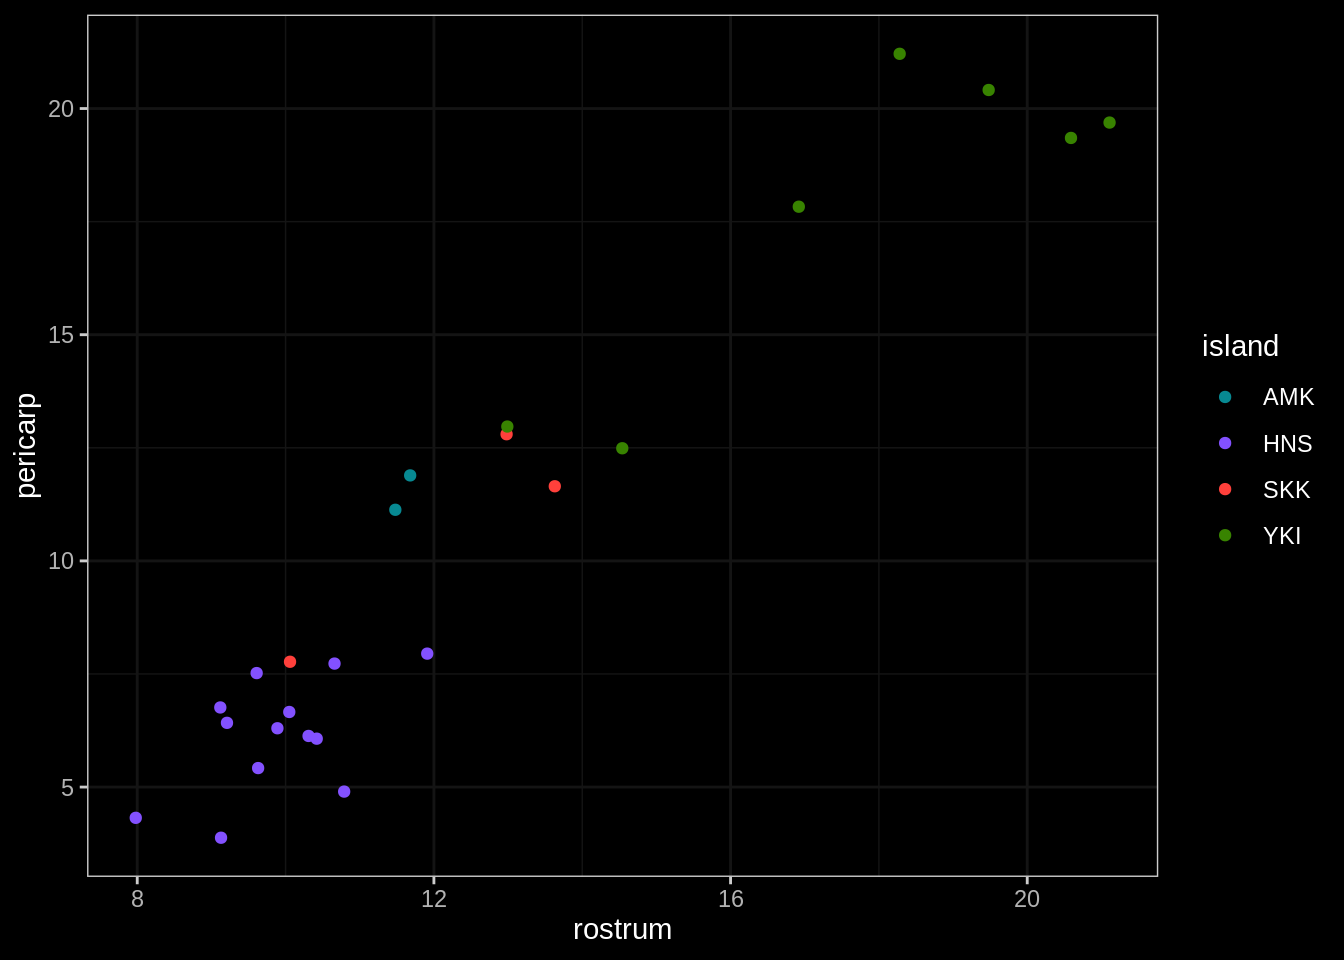
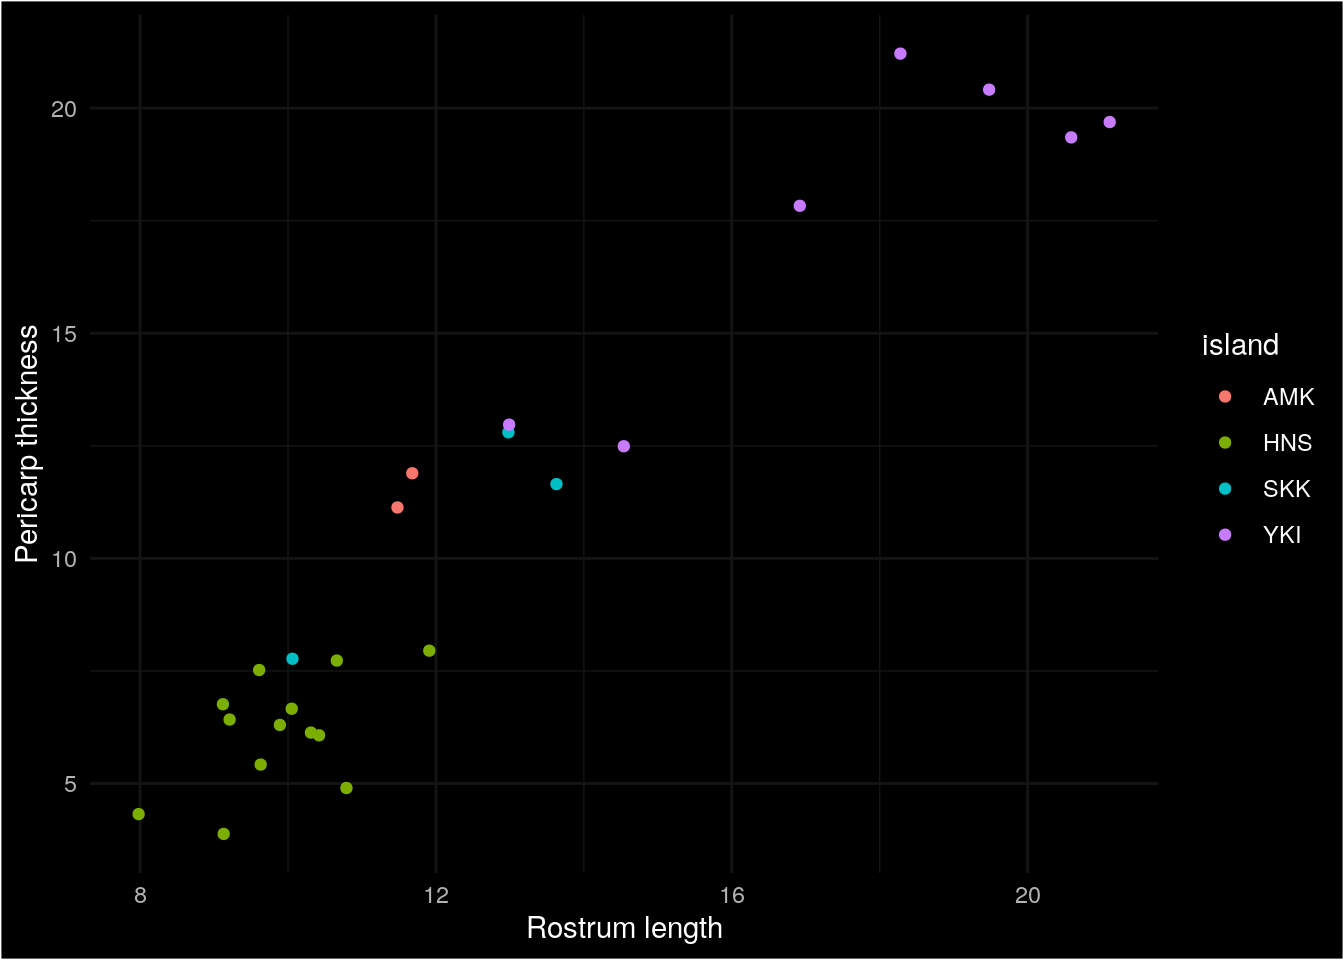
inv-fig

diff --git a/measuring_coevolution.html b/measuring_coevolution.html
@@ -1,12 +1,12 @@
 <!DOCTYPE html>
 
-<html xmlns="http://www.w3.org/1999/xhtml">
+<html>
 
 <head>
 
 <meta charset="utf-8" />
-<meta http-equiv="Content-Type" content="text/html; charset=utf-8" />
 <meta name="generator" content="pandoc" />
+<meta http-equiv="X-UA-Compatible" content="IE=EDGE" />
 
 
 
@@ -87,7 +87,6 @@ code {
 }
 img {
   max-width:100%;
-  height: auto;
 }
 .tabbed-pane {
   padding-top: 12px;
@@ -236,6 +235,7 @@ $(document).ready(function () {
   border: none;
   display: inline-block;
   border-radius: 4px;
+  background-color: transparent;
 }
 
 .tabset-dropdown > .nav-tabs.nav-tabs-open > li {
@@ -248,48 +248,9 @@ $(document).ready(function () {
 }
 </style>
 
-<script>
-$(document).ready(function () {
-  window.buildTabsets("TOC");
-});
-
-$(document).ready(function () {
-  $('.tabset-dropdown > .nav-tabs > li').click(function () {
-    $(this).parent().toggleClass('nav-tabs-open')
-  });
-});
-</script>
-
 <!-- code folding -->
 
 
-
-<script>
-$(document).ready(function ()  {
-
-    // move toc-ignore selectors from section div to header
-    $('div.section.toc-ignore')
-        .removeClass('toc-ignore')
-        .children('h1,h2,h3,h4,h5').addClass('toc-ignore');
-
-    // establish options
-    var options = {
-      selectors: "h1,h2",
-      theme: "bootstrap3",
-      context: '.toc-content',
-      hashGenerator: function (text) {
-        return text.replace(/[.\\/?&!#<>]/g, '').replace(/\s/g, '_').toLowerCase();
-      },
-      ignoreSelector: ".toc-ignore",
-      scrollTo: 0
-    };
-    options.showAndHide = true;
-    options.smoothScroll = true;
-
-    // tocify
-    var toc = $("#TOC").tocify(options).data("toc-tocify");
-});
-</script>
 
 <style type="text/css">
 
@@ -303,6 +264,12 @@ $(document).ready(function ()  {
 }
 }
 
+@media print {
+.toc-content {
+  /* see https://github.com/w3c/csswg-drafts/issues/4434 */
+  float: right;
+}
+}
 
 .toc-content {
   padding-left: 30px;
@@ -451,7 +418,10 @@ margin:5px;">
 </p>
 <pre class="r"><code># plot data
 library(ggplot2)
-ggplot(toju_df,aes(x=rostrum,y=pericarp,color=island))+geom_point()+theme_bw()</code></pre>
+library(ggdark)
+library(gapminder)
+library(ggthemes)
+ggplot(toju_df,aes(x=rostrum,y=pericarp,color=island))+geom_point()+dark_mode(theme_minimal())+xlab(&quot;Rostrum length&quot;)+ylab(&quot;Pericarp thickness&quot;)</code></pre>
 <div class="figure" style="text-align: center">
 <img src="measuring_coevolution_files/figure-html/unnamed-chunk-2-1.png" alt="Figure 2: Displayed in this scatter plot are mean trait pairs for various locations across Japan. The colours indicate which island these locations belong to." width="672" />
 <p class="caption">
@@ -689,6 +659,49 @@ $(document).ready(function () {
 });
 
 
+</script>
+
+<!-- tabsets -->
+
+<script>
+$(document).ready(function () {
+  window.buildTabsets("TOC");
+});
+
+$(document).ready(function () {
+  $('.tabset-dropdown > .nav-tabs > li').click(function () {
+    $(this).parent().toggleClass('nav-tabs-open')
+  });
+});
+</script>
+
+<!-- code folding -->
+
+<script>
+$(document).ready(function ()  {
+
+    // move toc-ignore selectors from section div to header
+    $('div.section.toc-ignore')
+        .removeClass('toc-ignore')
+        .children('h1,h2,h3,h4,h5').addClass('toc-ignore');
+
+    // establish options
+    var options = {
+      selectors: "h1,h2",
+      theme: "bootstrap3",
+      context: '.toc-content',
+      hashGenerator: function (text) {
+        return text.replace(/[.\\/?&!#<>]/g, '').replace(/\s/g, '_').toLowerCase();
+      },
+      ignoreSelector: ".toc-ignore",
+      scrollTo: 0
+    };
+    options.showAndHide = true;
+    options.smoothScroll = true;
+
+    // tocify
+    var toc = $("#TOC").tocify(options).data("toc-tocify");
+});
 </script>
 
 <!-- dynamically load mathjax for compatibility with self-contained -->
